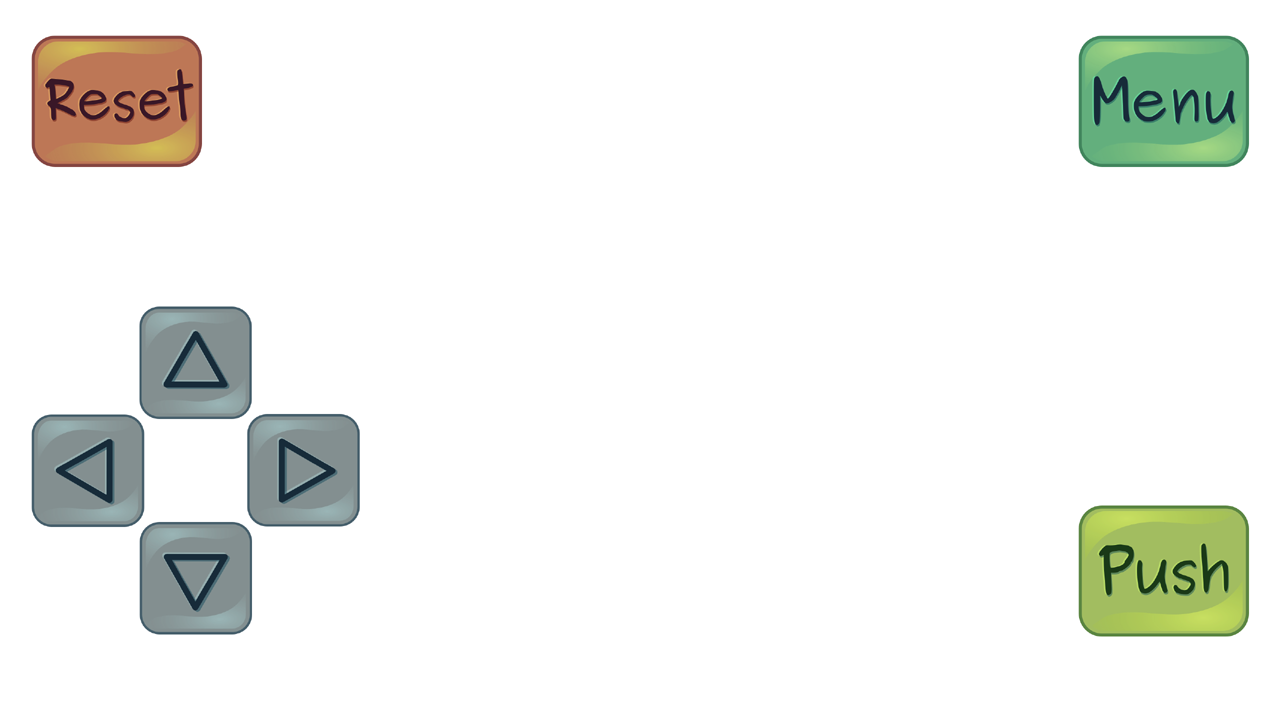
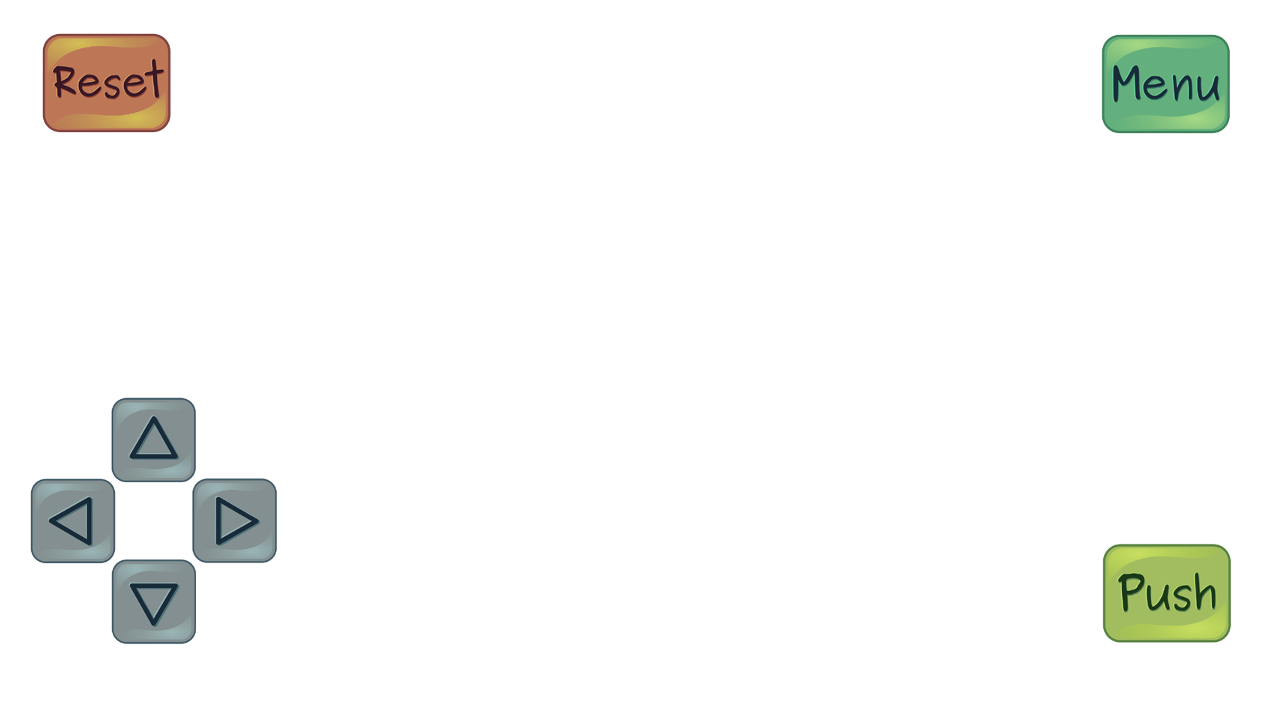
Update overlays.

diff --git a/android/eclipse/src/com/dinothawr/Dinothawr.java b/android/eclipse/src/com/dinothawr/Dinothawr.java
@@ -197,6 +197,7 @@ public class Dinothawr extends Activity {
 				.getDefaultSharedPreferences(getBaseContext());
 		
 		conf.setString("input_overlay", prefs.getBoolean("overlay_enable", true) ? dataDir + overlay : "");
+		conf.setDouble("input_overlay_opacity", 0.5);
 		
 		boolean pixelPurist = prefs.getBoolean("pixel_purist", false);
 		boolean audioEnable = prefs.getBoolean("enable_audio", true);
